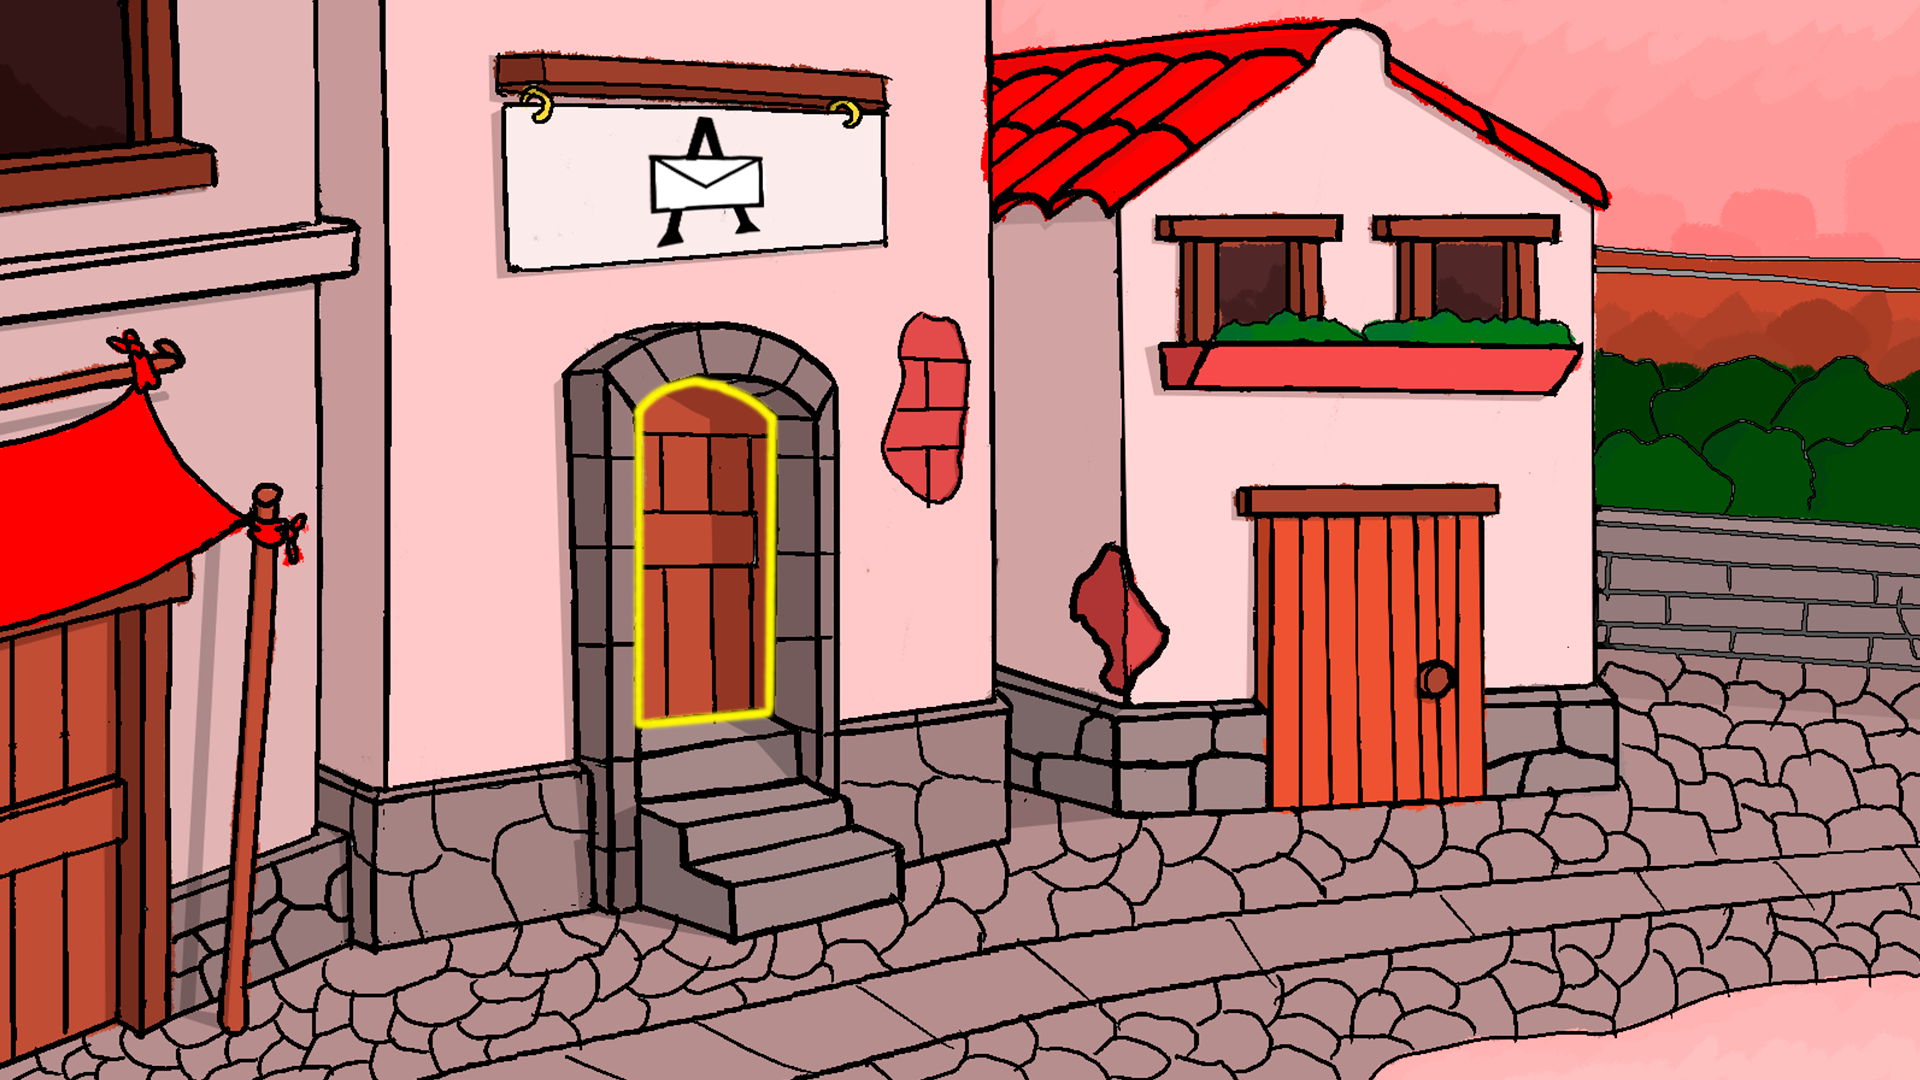
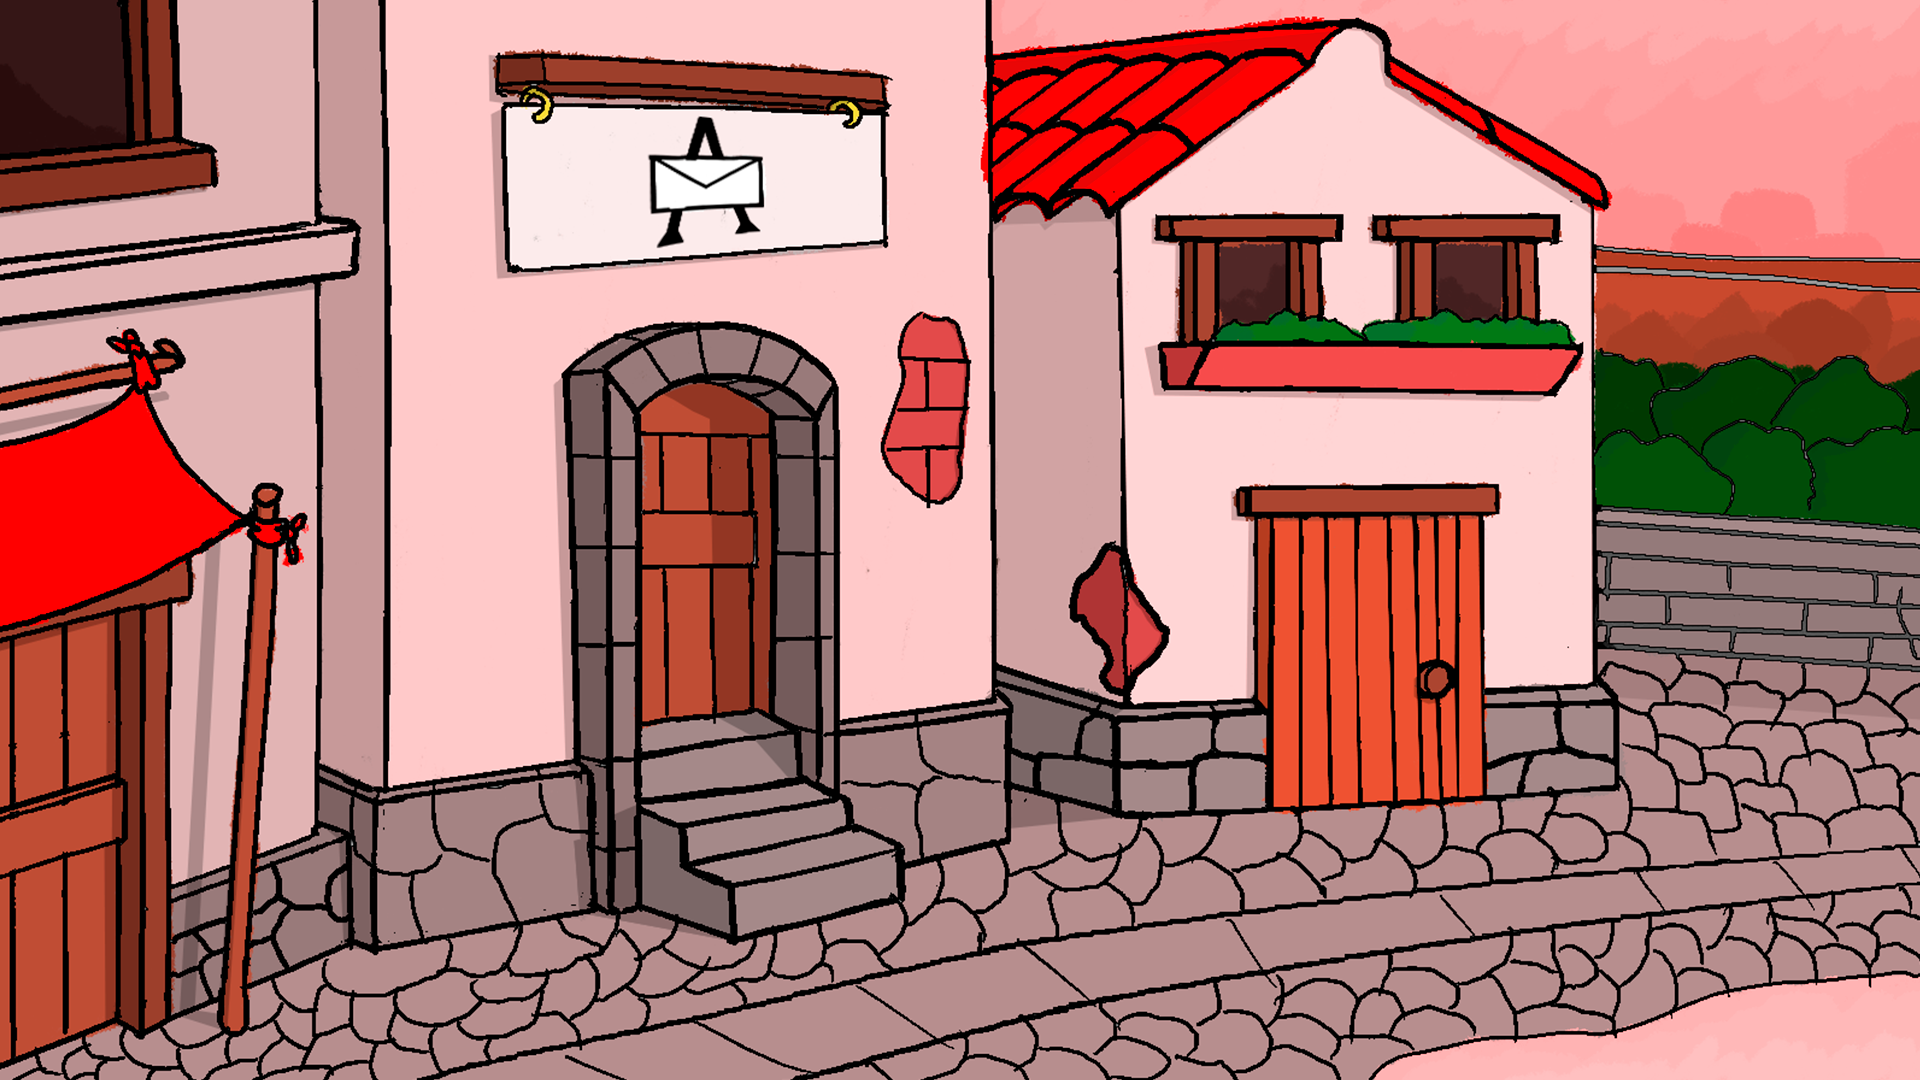
arreglao lo del highlight

Changed region(s): [[0.3125, 0.3361, 0.4062, 0.6722]]

diff --git a/FuMonoStudios/Game/src/scenes/IntroScene.cpp b/FuMonoStudios/Game/src/scenes/IntroScene.cpp
@@ -137,6 +137,8 @@ void ecs::IntroScene::updateIteration(int it)
 				});
 			break;
         case 10:
+			changeBackground("HestiaHighlight");
+
 			jefe_->setActive(false);
 			door_ = createDoor();
 			break;
